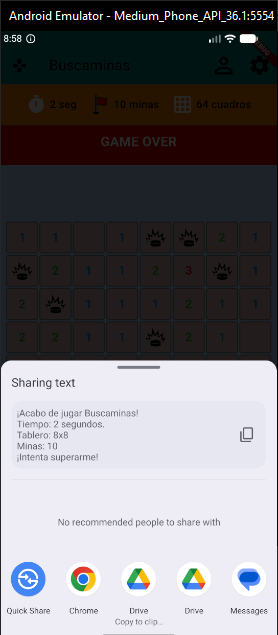
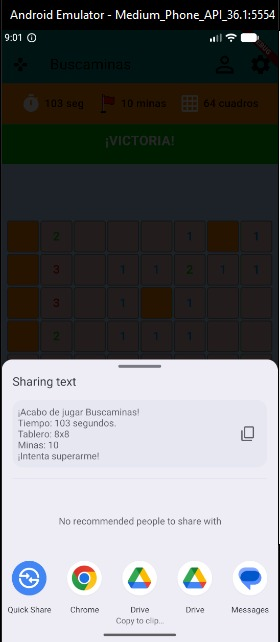
Arreglar capturas
Guarde mal las capturas, estas son las actualizadas

diff --git a/README.md b/README.md
@@ -164,8 +164,7 @@ logger:
 
 ---
 
-## Capturas
-# 📸 Capturas
+# Capturas
 
 ## Pantalla Principal
 
@@ -187,7 +186,7 @@ logger:
 
 ## Configuración
 
-![Configuración](assets/capturas/Configuración.png)
+![Configuración](assets/capturas/Configuracion.png)
 
 ---
 
